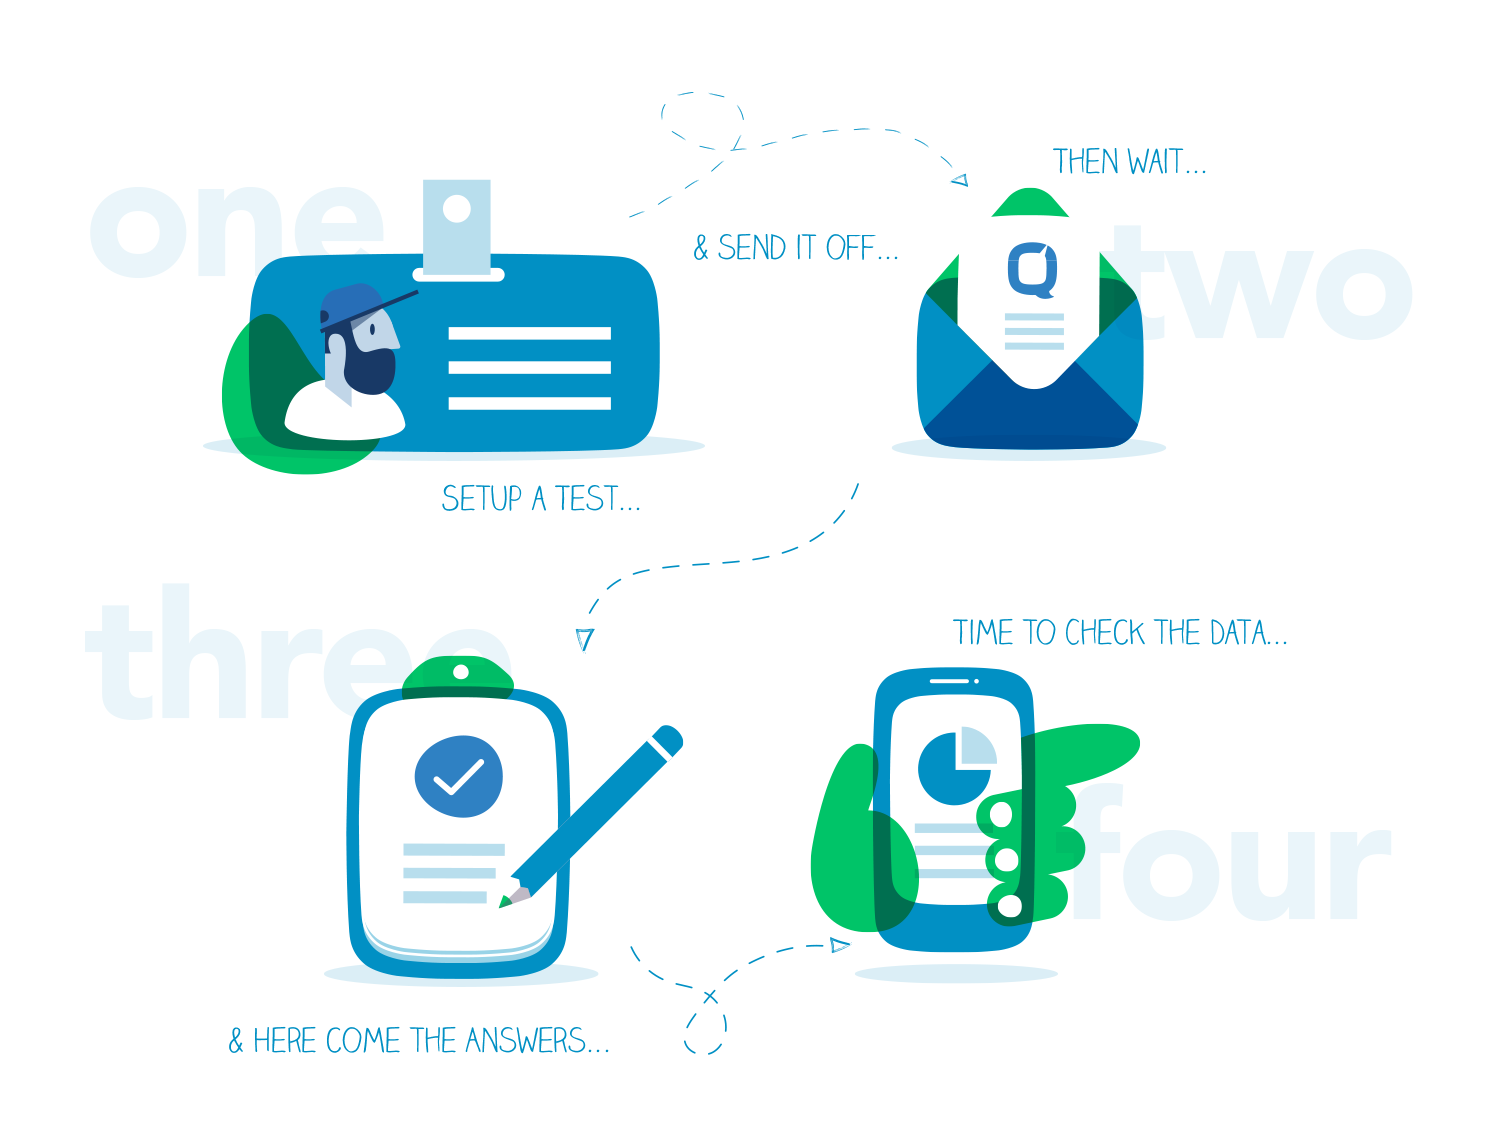
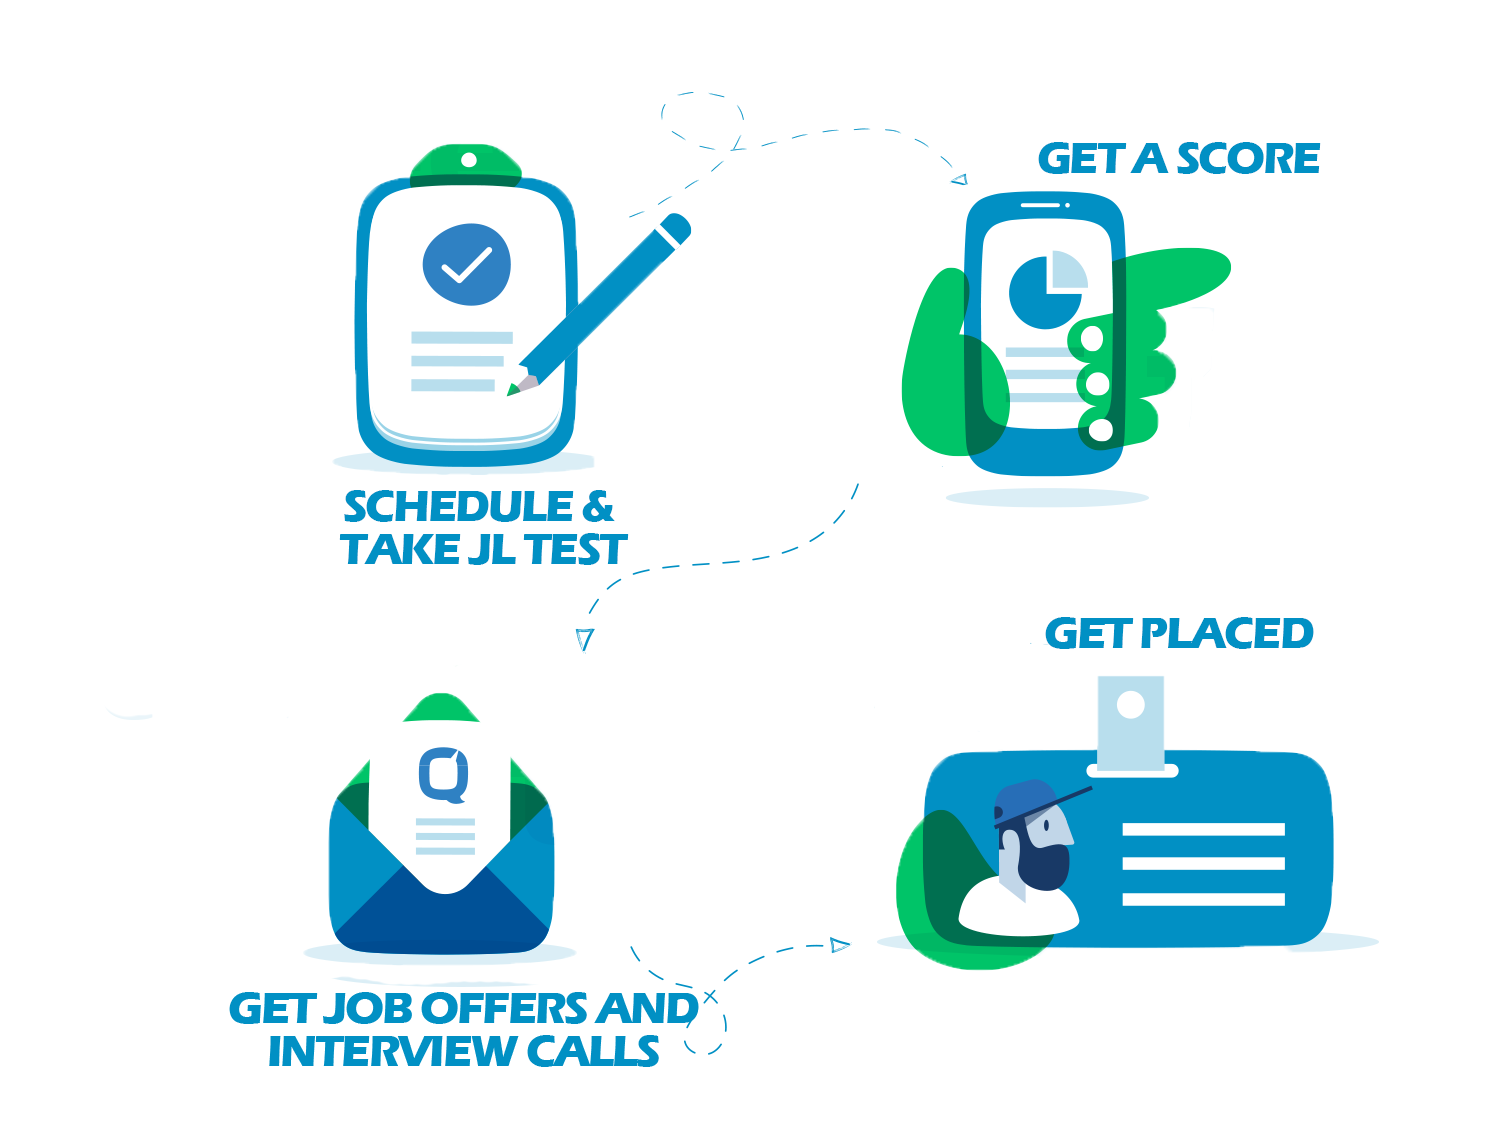
UI changes

diff --git a/index.html b/index.html
@@ -156,7 +156,7 @@
                     </p>
                 </div>
                 <div class="col l6 s12">
-                    <img class="hoverable " style="width:100%;border-radius:10px; " src="img/space_shopping.png " alt=" ">
+                    <img class="hoverable " style="width:100%;border-radius:10px; " src="img/image1.png " alt=" ">
                 </div>
             </div>
         </div>
@@ -256,7 +256,7 @@
                 <center>
                     <div class="card col s12 z-depth-0 ">
                         <div class="col s6">
-                            <img style="width:100%; " src="img/ufo-01.png " alt=" ">
+                            <img style="width:100%; " src="img/job-offers.jpg " alt=" ">
                         </div>
                         <div class="col s6">
                             <p class="flow-text indigo-text" style="text-align:justify; ">
@@ -270,7 +270,7 @@
                 <center>
                     <div class="card col s12 z-depth-0 ">
                         <div class="col s6 ">
-                            <img style="width:100%; " src="img/record.png " alt=" ">
+                            <img style="width:100%; " src="img/vacancies.png " alt=" ">
                         </div>
                         <div class="col s6 ">
                             <p class="flow-text indigo-text" style="text-align:justify; ">
